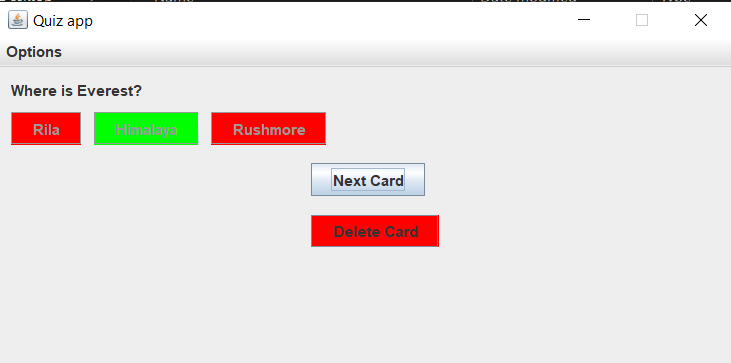
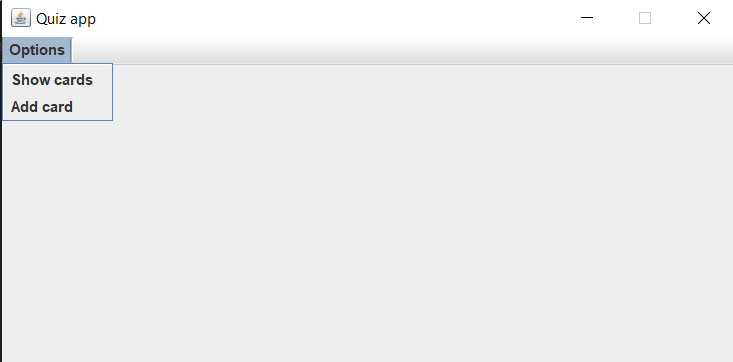
updated readme

Changed region(s): [[0.0, 0.0, 1.0, 0.547], [0.4213, 0.5773, 0.6019, 0.6989]]

diff --git a/README.md b/README.md
@@ -1,1 +1,29 @@
 # StudyCardsApp
+This Study Card application is a tool designed to help students effectively study and memorize information using digital flashcards. The app allows users to create virtual study cards with questions and multiple answers, and then randomly presents these cards to the user for practice.
+
+* Java
+* Java GUI
+* PostgreSQL
+
+### Opening the application
+The user can select Add Card to add study cards if there are none yet.
+
+<img src="https://github.com/Djimi02/StudyCardsApp/blob/main/photos/Menu.png"  width=40% height=40%>
+
+### Adding a study card
+The user can add a study card by inputting a question and at least 2 and at most 4 answers to that question. Furthermore, multiple correct asnwers can be selected.
+
+<img src="https://github.com/Djimi02/StudyCardsApp/blob/main/photos/AddingQuestion1.png"  width=40% height=40%>
+
+### Using study cards
+By selecting the View cards menu, the user is prompted to a screen where random cards appear.
+
+<img src="https://github.com/Djimi02/StudyCardsApp/blob/main/photos/ViewingQuestion1.png"  width=40% height=40%>
+
+ By selecting any of the answers, the correct and wrong answers are marked with green and red respectively. 
+
+ <img src="https://github.com/Djimi02/StudyCardsApp/blob/main/photos/AnsweringQuestion1.png"  width=40% height=40%>
+
+ Clicking on Next Card will load the next study card at randomly.
+
+ Clicking on Delete Card will permanently delete the study card from the application.
